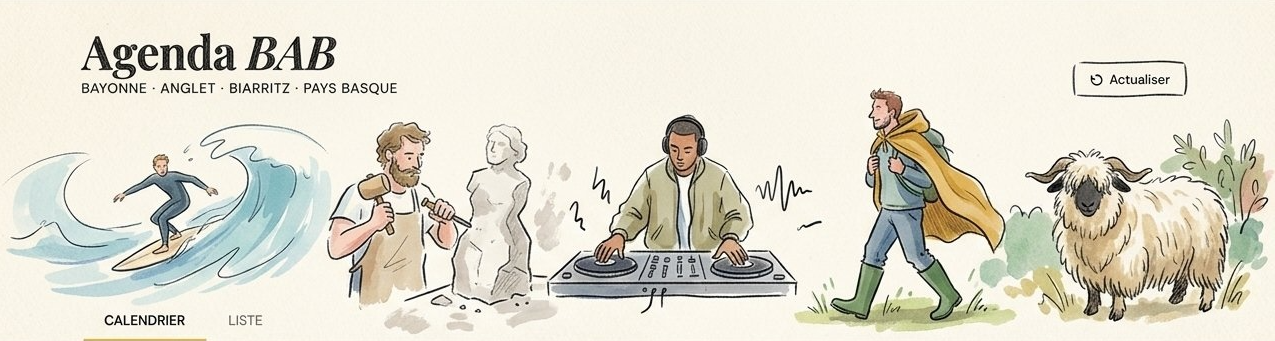
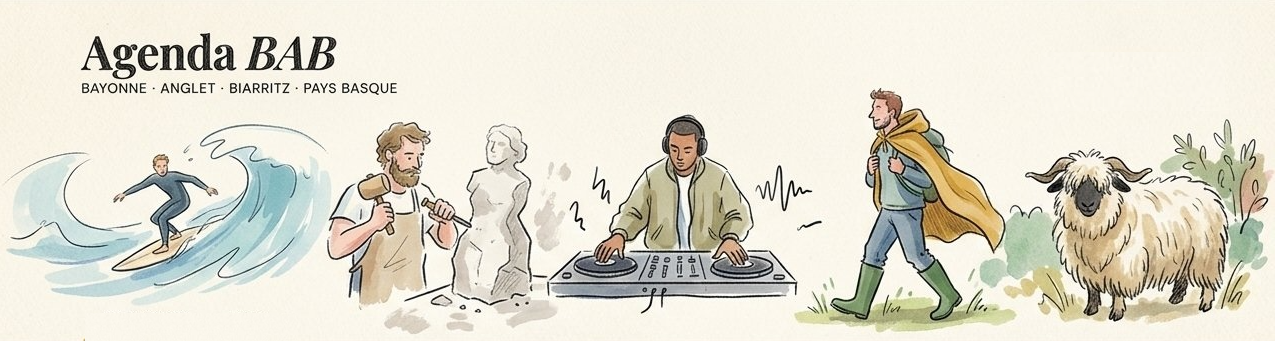
replace header with illustration

Changed region(s): [[0.8259, 0.176, 0.9482, 0.2933], [0.0612, 0.9091, 0.1835, 1.0], [0.1835, 0.9091, 0.2141, 0.9677]]

diff --git a/frontend/public/index.html b/frontend/public/index.html
@@ -42,7 +42,7 @@
 
     body {
       font-family: 'DM Sans', sans-serif;
-      background: var(--sand);
+      background: #F8F5EA;
       color: var(--ink);
       min-height: 100vh;
     }
@@ -51,7 +51,7 @@
     .site-header {
       background: #F5F0E8;
       color: var(--ink);
-      padding: 0;
+      padding: 20px;
       position: relative;
       overflow: hidden;
       border-bottom: 1px solid var(--border);
@@ -145,7 +145,8 @@
       padding: 0 2rem;
       display: flex;
       gap: 0;
-      position: relative;
+      position: absolute;
+      bottom: 0px;
     }
 
     .nav-tab {
@@ -566,10 +567,6 @@
 <header class="site-header">
   <div class="header-illustration"></div>
   <div class="header-inner">
-    <div class="site-brand">
-      <h1>Agenda <em>BAB</em></h1>
-      <p class="tagline">Bayonne · Anglet · Biarritz · Pays Basque</p>
-    </div>
     <div class="header-actions">
       <span class="last-refresh" id="lastRefreshLabel"></span>
       <button class="settings-btn" onclick="toggleSettings()">
@@ -590,6 +587,7 @@
     <button class="nav-tab" onclick="setView('list')">Liste</button>
   </nav>
 </header>
+
 
 <!-- ── Main ─────────────────────────────────────── -->
 <main class="main">
